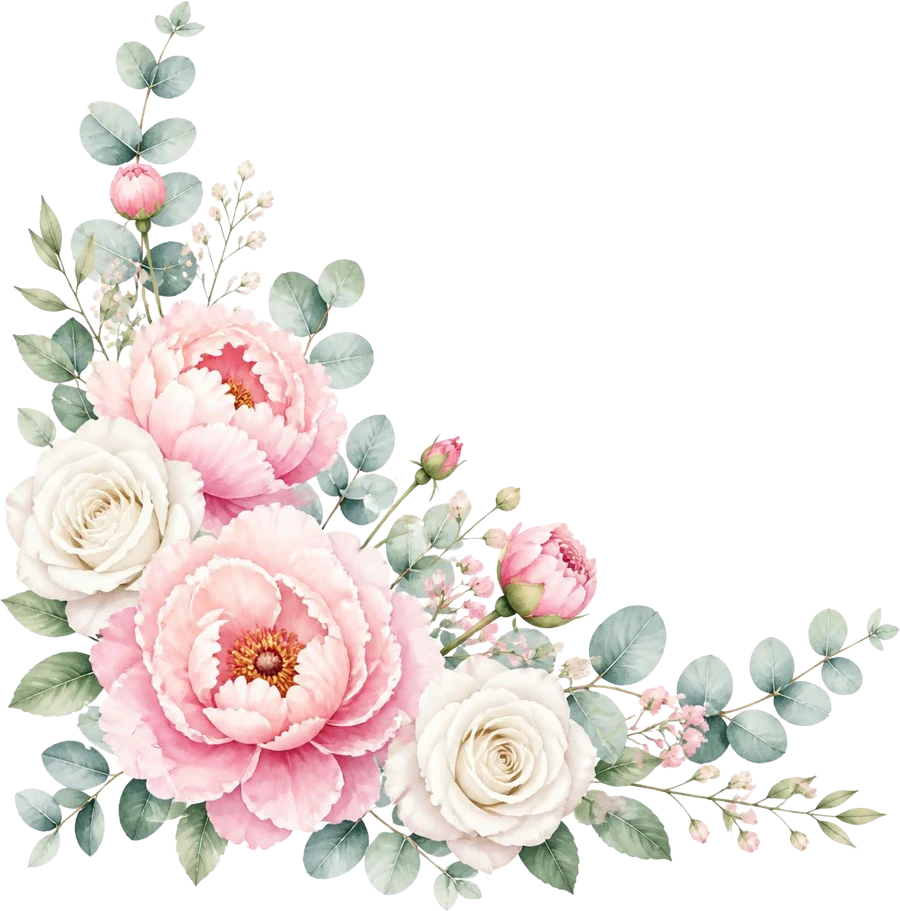
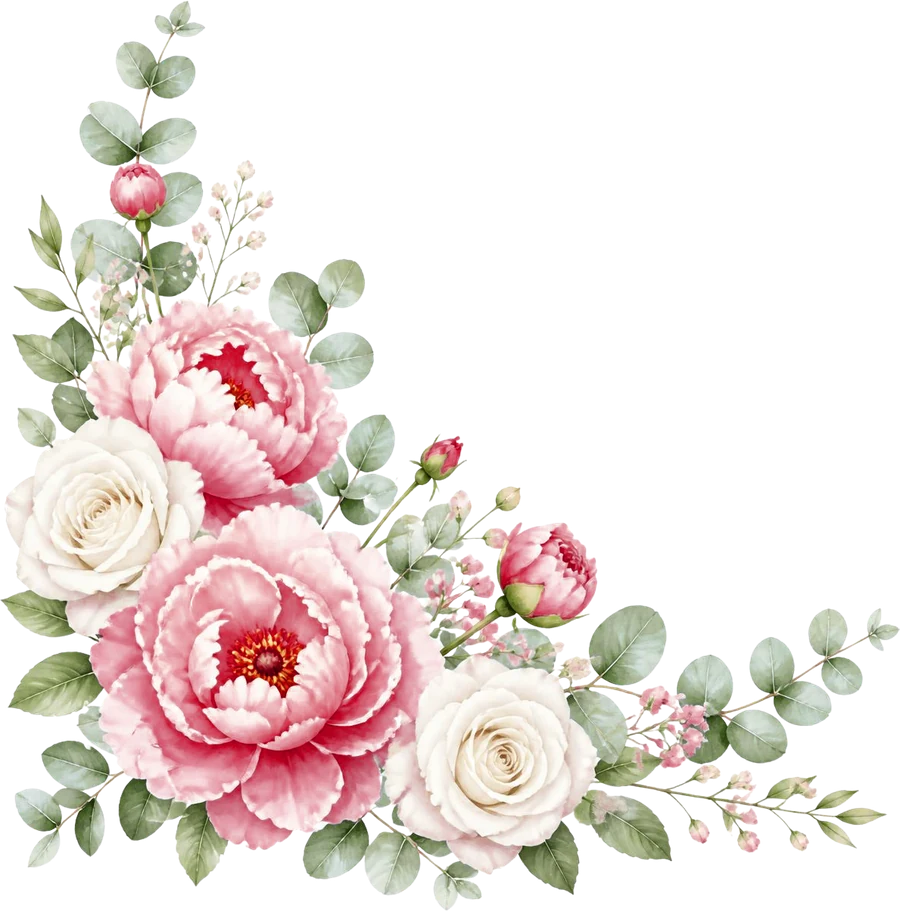
Hero bouquets: smaller, recoloured to match the dusty-rose garland
Claude-Session: https://claude.ai/code/session_017GcfSBjfveMfY8L2d8GX4C

diff --git a/css/style.css b/css/style.css
@@ -608,7 +608,7 @@ body::after {
 /* ---------- Hero: hanging rose & jasmine sprays in the top corners ---------- */
 .hero__content { position: relative; z-index: 1; }
 .hero__spray {
-  position: absolute; bottom: -2%; z-index: 0; width: min(46vw, 26vh, 240px); height: auto; pointer-events: none;
+  position: absolute; bottom: -2%; z-index: 0; width: min(34vw, 20vh, 180px); height: auto; pointer-events: none;
   opacity: 0; translate: 0 24px; filter: drop-shadow(0 8px 20px rgba(20, 8, 10, .35));
 }
 .hero__spray--left  { left: -3%; }
@@ -618,6 +618,6 @@ body::after {
 .hero::after { content: ""; position: absolute; left: 0; right: 0; top: 0; height: 130px; z-index: 0; pointer-events: none;
   background: linear-gradient(180deg, rgba(38, 13, 18, .62), rgba(38, 13, 18, 0)); }
 @media (min-width: 900px) {
-  .hero__spray { width: min(22vw, 34vh, 330px); }
+  .hero__spray { width: min(16vw, 26vh, 250px); }
   .hero__spray--left { left: -1.5%; } .hero__spray--right { right: -1.5%; }
 }
